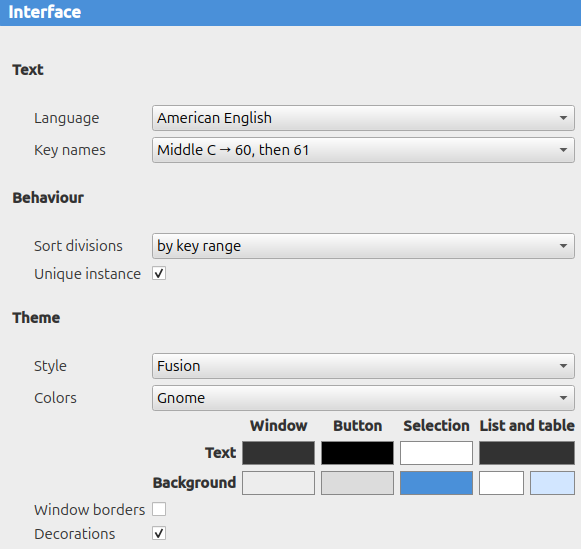
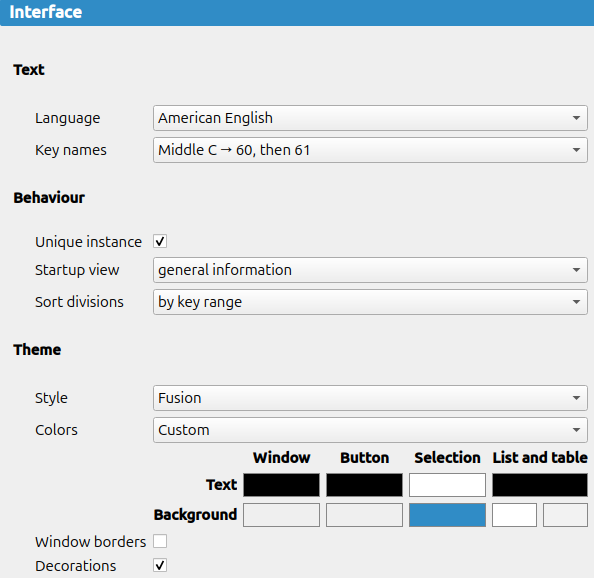
Startup view

diff --git a/fr/manual/settings.md b/fr/manual/settings.md
@@ -52,11 +52,14 @@ Nom des notes
 : Les notes peuvent être nommées selon leur numéro (en accord avec la spécification MIDI), ou selon le nom du Do central (Do3, Do4 ou Do5).
   Le nom des notes peut contenir des dièses ou des bémols.
 
-Ordonner les divisions
-: L'ordre des divisions au sein d'un instrument ou d'un ensemble peut être changé ici.
-
 Instance unique
 : Ouvre tous les fichiers dans une seule et même fenêtre.
+
+Vue au démarrage
+: Sélectionne la vue à l'ouverture d'une banque de sons parmi&nbsp;: informations générales (par défaut), liste des échantillons, premier échantillon, liste des instruments, premier instrument, liste des ensembles, premier ensemble.
+
+Ordonner les divisions
+: L'ordre des divisions au sein d'un instrument ou d'un ensemble peut être changé ici.
 
 Thème
 : Différents styles et jeux de couleurs prédéfinis sont disponibles pour personnaliser l'apparence de Polyphone.

diff --git a/en/manual/settings.md b/en/manual/settings.md
@@ -52,11 +52,14 @@ Key names
 : Keys may be named depending on their number (according to MIDI specification), or depending on the name of middle C (C3, C4 or C5).
   Key names may comprise sharps or flats.
 
-Sort divisions
-: The division order within an instrument or a preset can be changed here.
-
 Unique instance
 : Open all files in a single window.
+
+Startup view
+: Select the view to display when a soundfont is open from the following: general information (default), sample list, first sample, instrument list, first instrument, preset list, first preset.
+
+Sort divisions
+: The division order within an instrument or a preset can be changed here.
 
 Theme
 : Different styles and predefined color sets are available for customizing the appearance of Polyphone.
